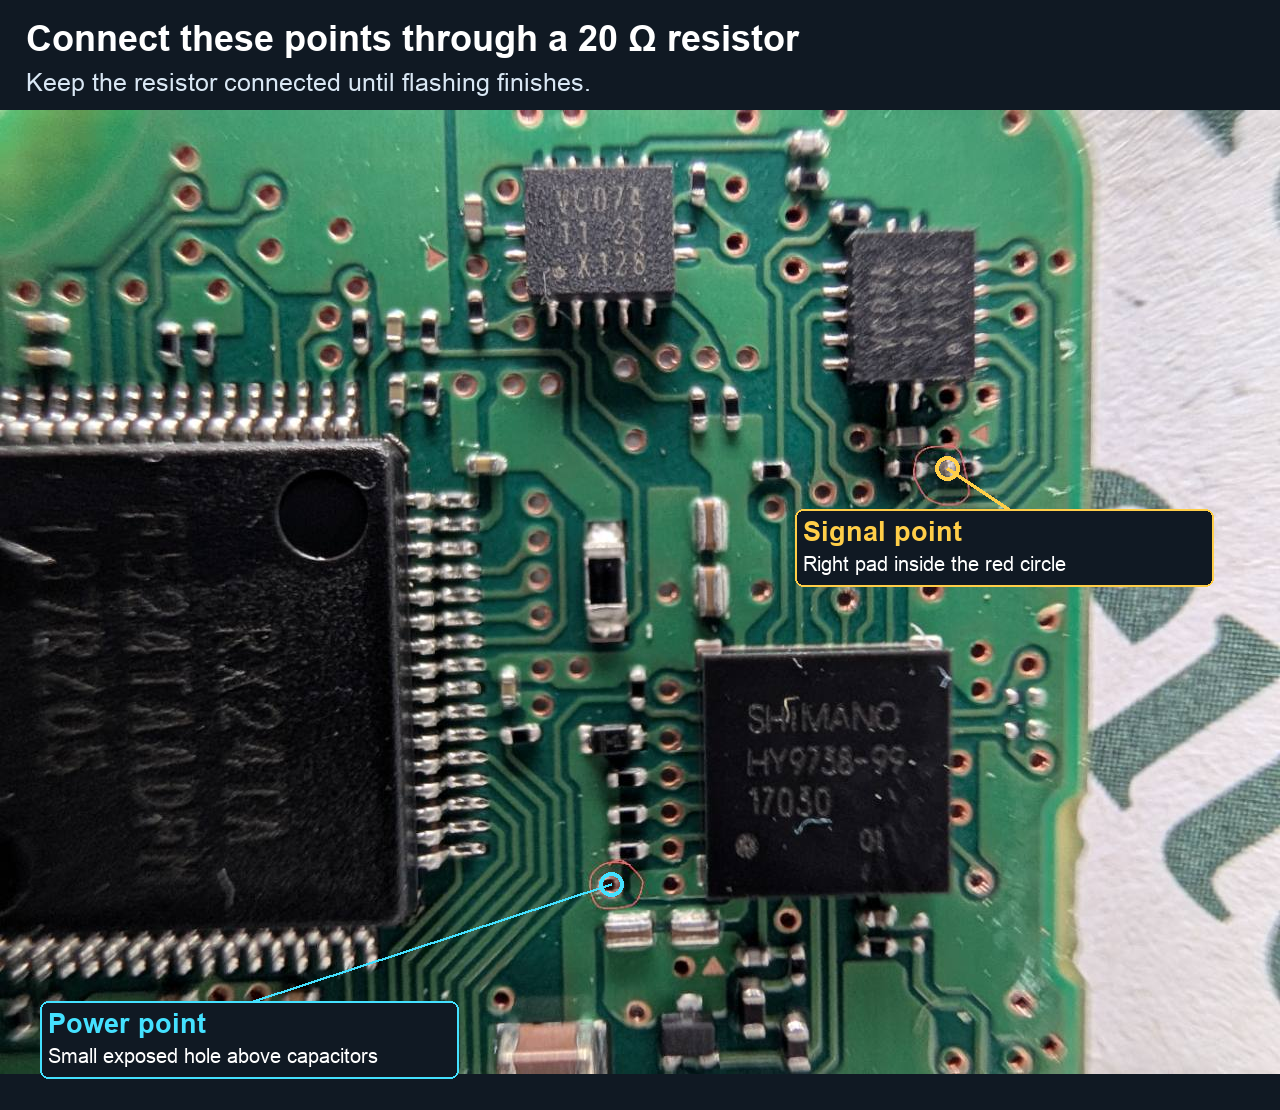
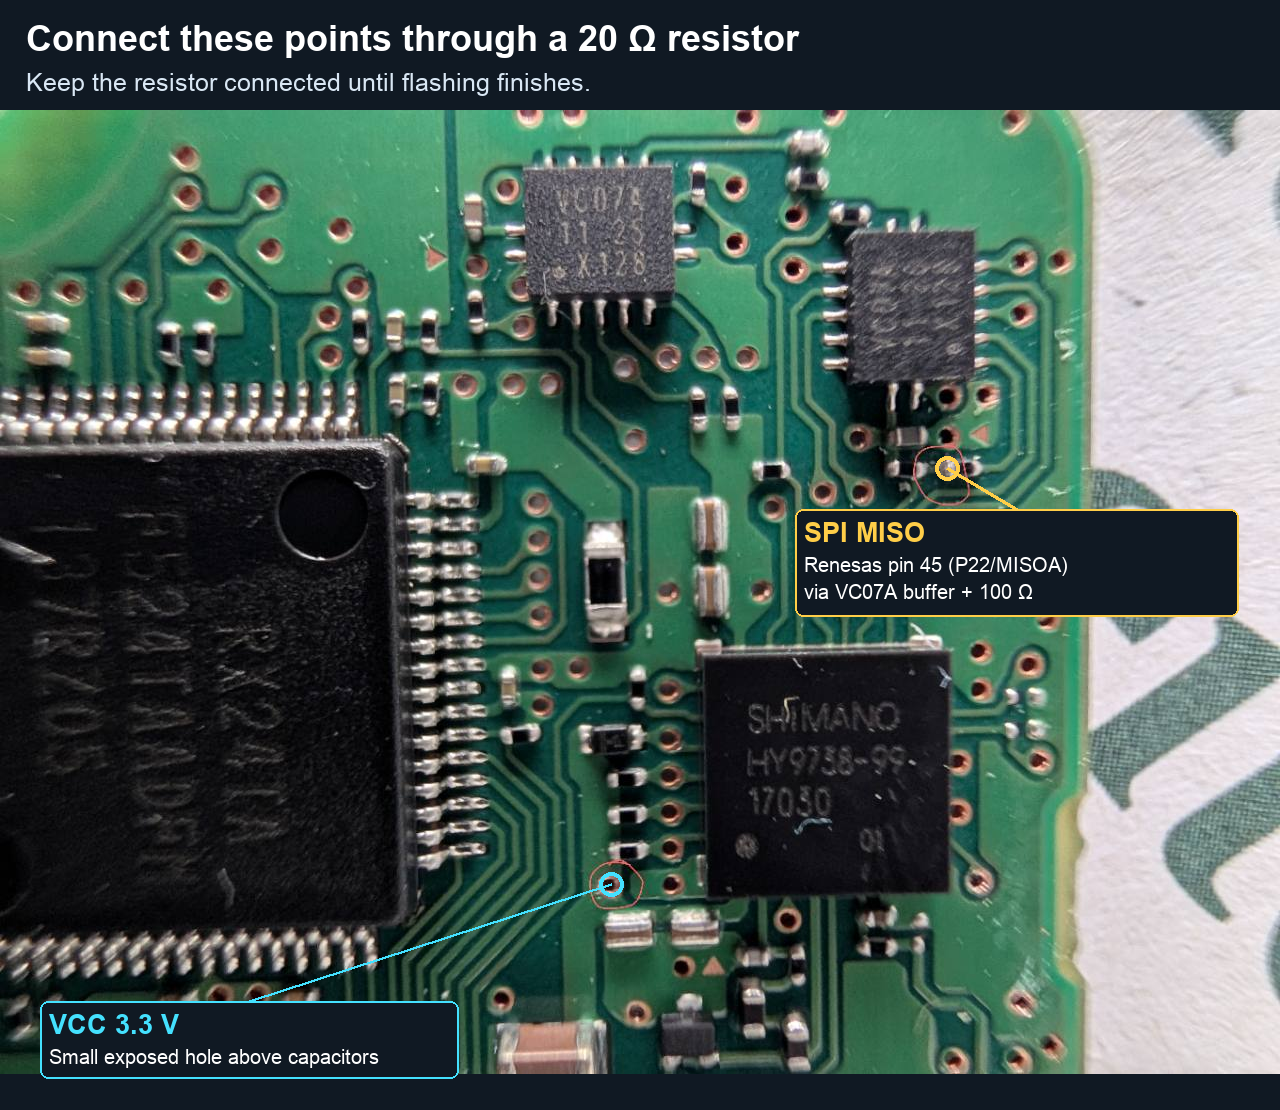
Clarify recovery bridge VCC and SPI MISO labels

Changed region(s): [[0.5938, 0.4595, 0.9688, 0.582], [0.0312, 0.9189, 0.2812, 0.9802], [0.75, 0.4288, 0.7812, 0.4595]]

diff --git a/docs/ep800-hardware-recovery.md b/docs/ep800-hardware-recovery.md
@@ -58,17 +58,21 @@ The large connector on the reverse side links the two boards.
 With battery and USB disconnected, position the contacts on the connector
 board. The adaptor supplies power for recovery; no battery is needed.
 
-![Power and signal points for the temporary 20 ohm bridge](images/ep800-recovery/bridge-location-labelled.png)
+![VCC 3.3 V and SPI MISO points for the temporary 20 ohm bridge](images/ep800-recovery/bridge-location-labelled.png)
 
 With the **SHIMANO lettering upright**:
 
 | Point | Where to connect |
 |---|---|
-| **Power point** | The marked exposed via just left of the Shimano chip's lower-left corner, above the left of the two large ceramic capacitors. |
-| **Signal point** | The marked right-hand solder pad of the lower small horizontal component beneath the upper-right small chip. |
+| **VCC 3.3 V** | The marked exposed via just left of the Shimano chip's lower-left corner, above the left of the two large ceramic capacitors. |
+| **SPI MISO** | The marked right-hand solder pad of the lower small horizontal component beneath the upper-right small chip. |
+
+SPI MISO runs from the Renesas MCU's pin 45 (P22/MISOA), through the VC07A
+buffer (input pin 1 → output pin 2) and a 100 Ω resistor, to the Shimano chip.
+The marked signal point is on the Shimano side of that resistor.
 
 ```text
-Marked power point ── 20 ohm resistor ── Marked signal point
+VCC 3.3 V ── 20 ohm resistor ── SPI MISO
 ```
 
 Use the resistor, not a direct wire. **20 ohms worked on this board; confirm your
